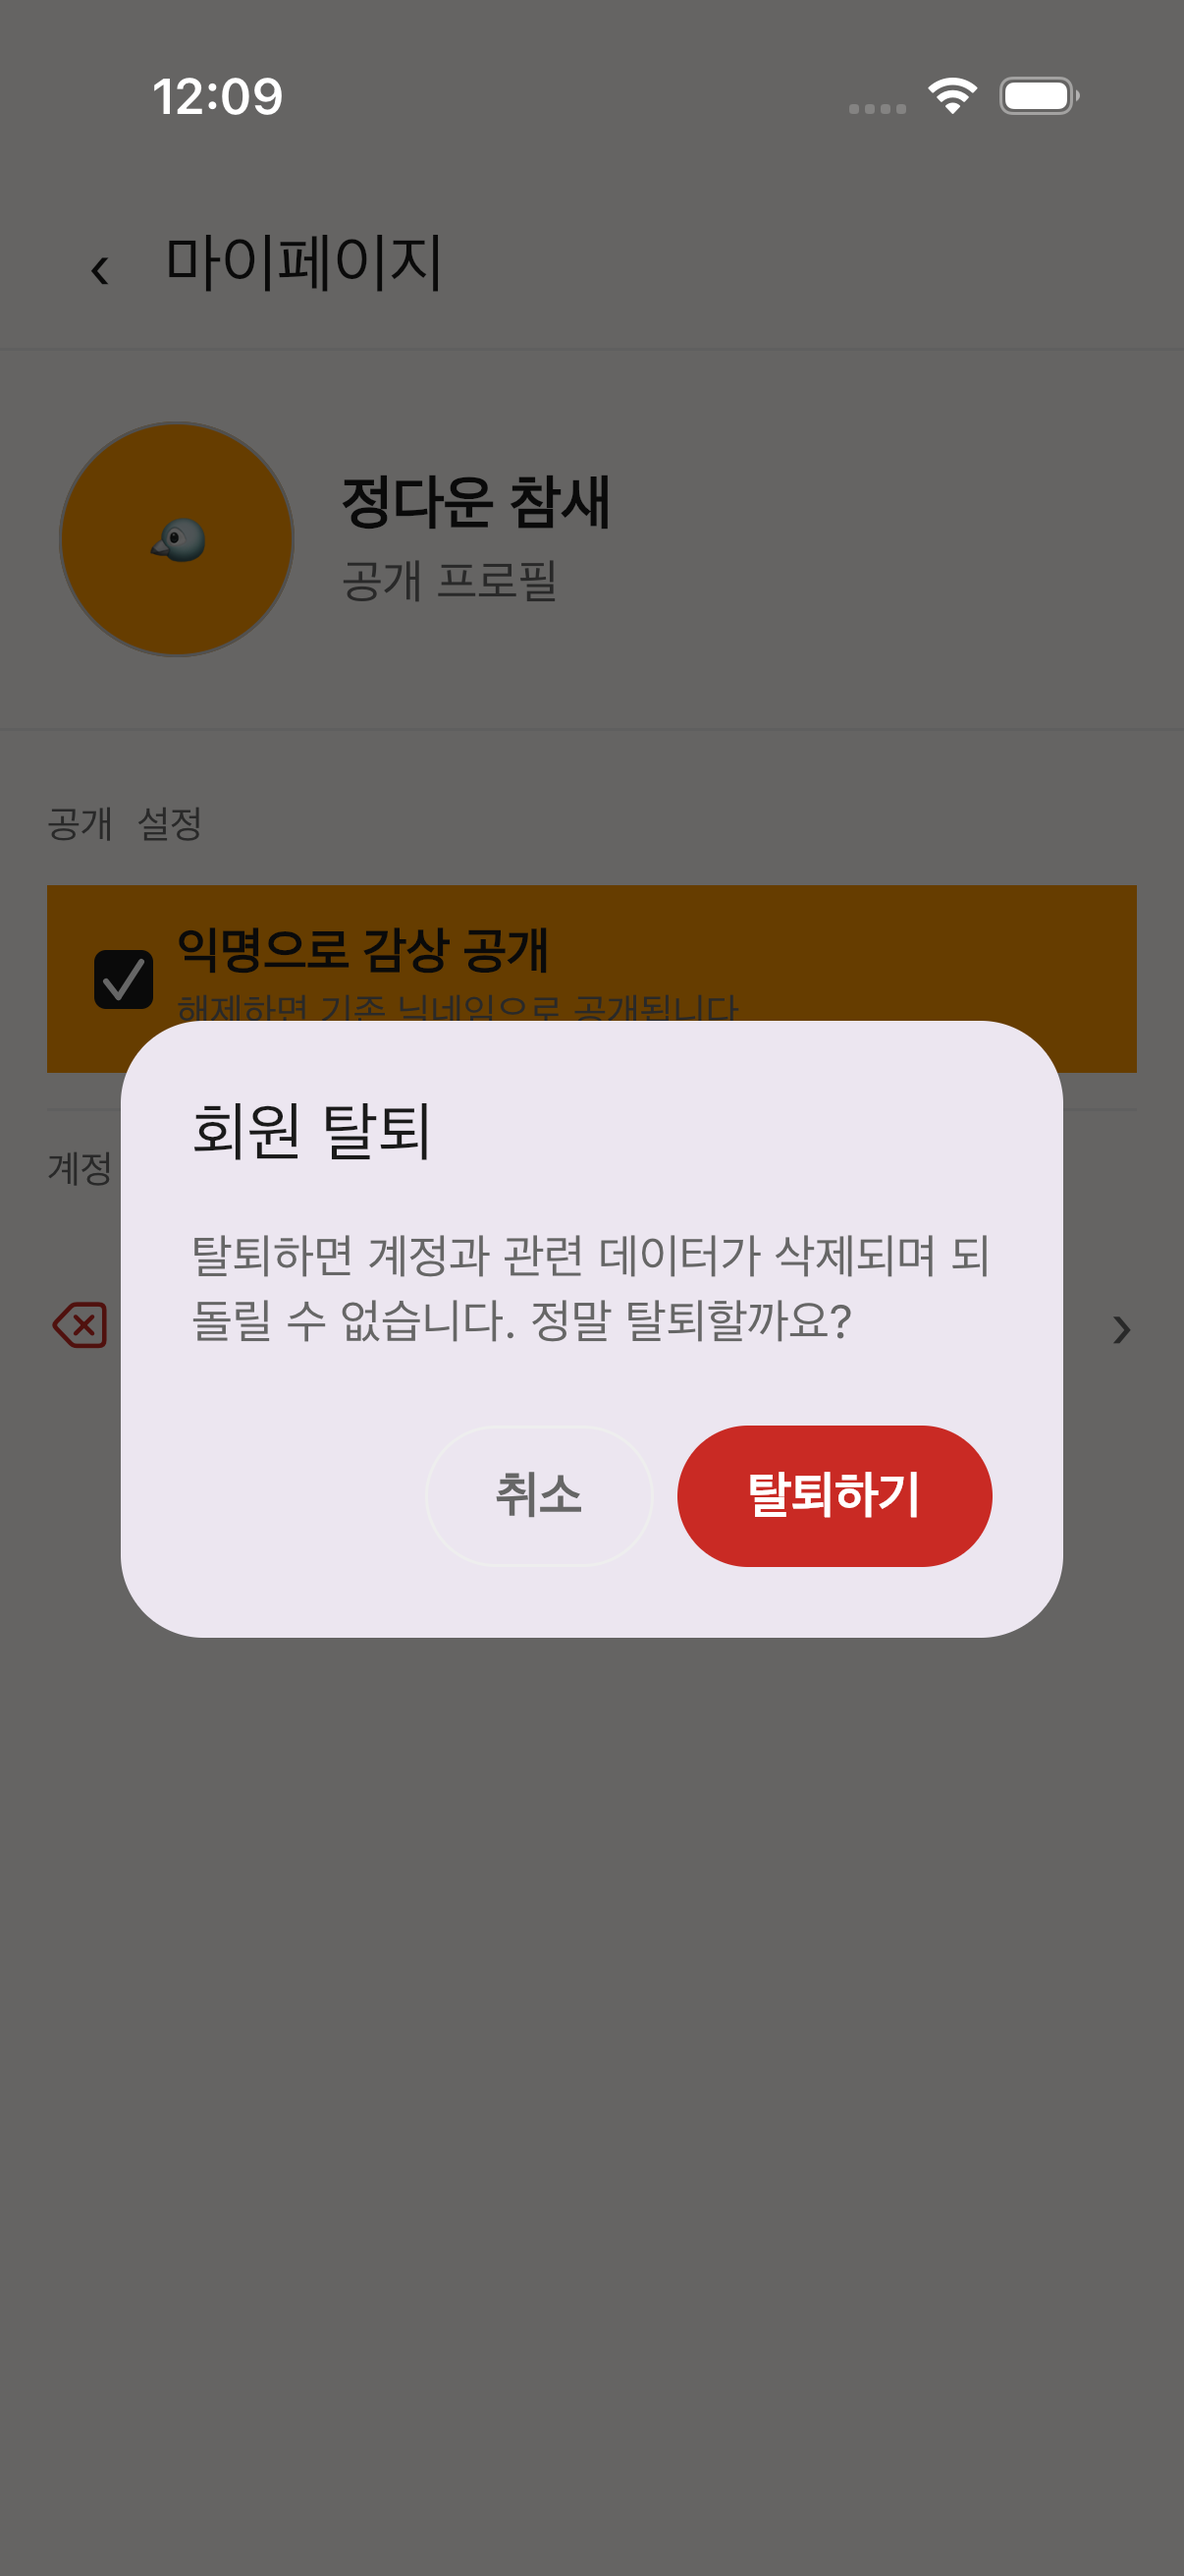
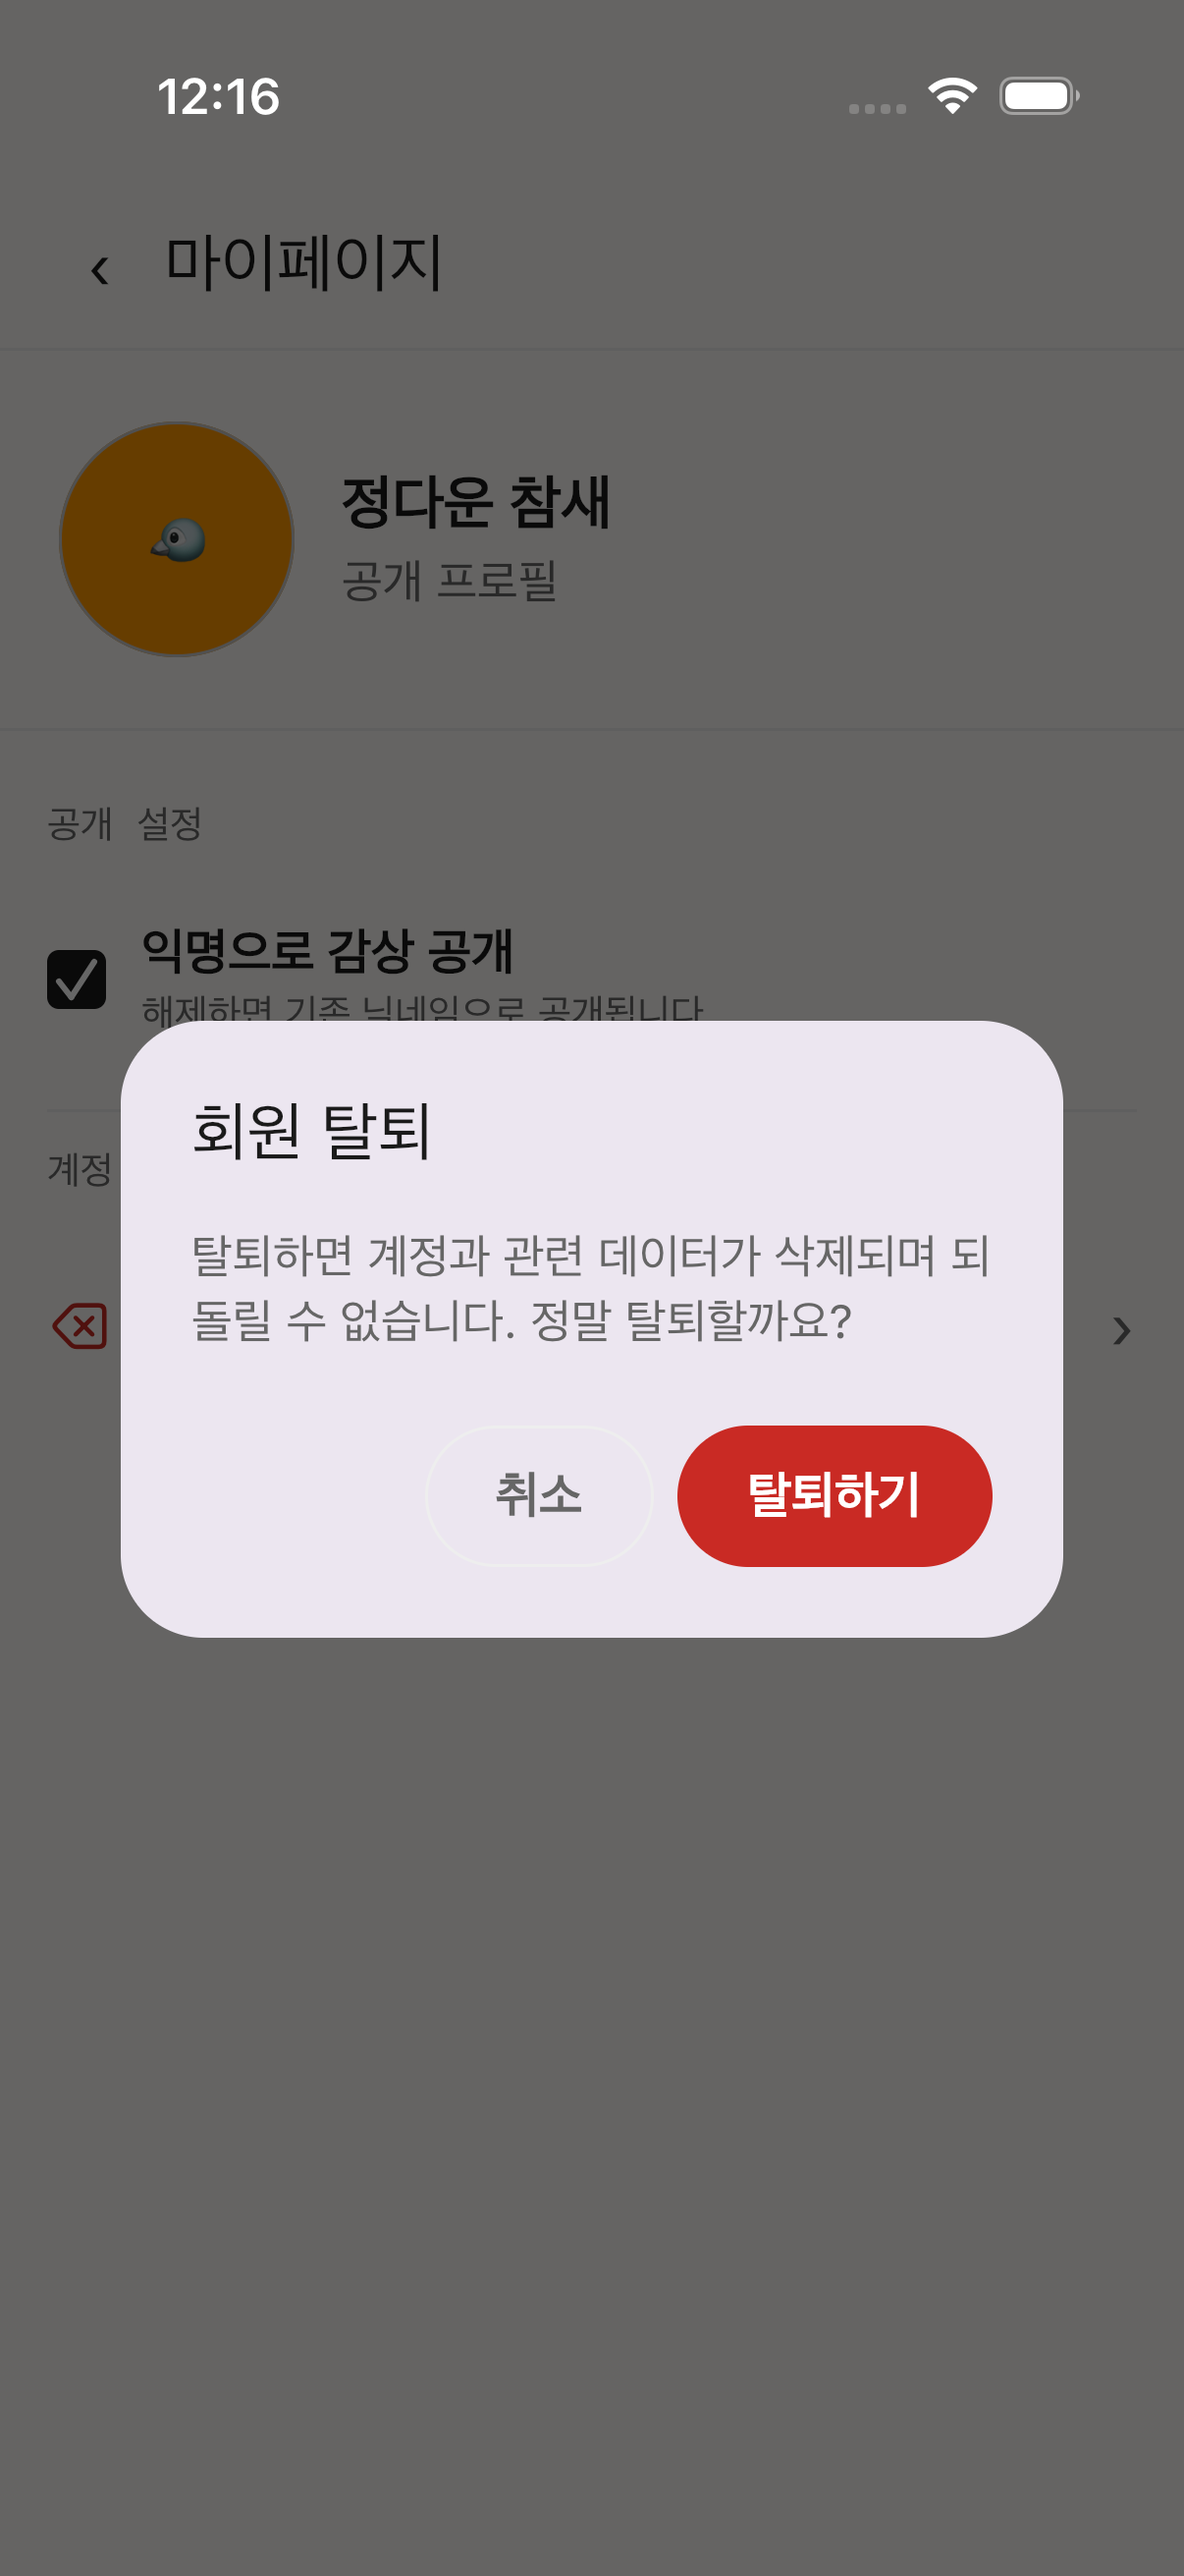
style(android): 익명 공개 설정 배경을 제거
마이페이지의 익명 공개 설정을 회원 탈퇴 행과 같은 평면형 구성으로 맞춘다.
기본 크기와 AX5 구현 화면을 새 디자인으로 갱신한다.

Changed region(s): [[0.0307, 0.3398, 0.9818, 0.4325], [0.1227, 0.0309, 0.2454, 0.0618]]

diff --git a/android/shared/src/commonMain/kotlin/com/chaekchaek/app/ui/archive/MyPageScreen.kt b/android/shared/src/commonMain/kotlin/com/chaekchaek/app/ui/archive/MyPageScreen.kt
@@ -185,10 +185,10 @@ private fun SectionLabel(text: String) {
 @Composable
 private fun AnonymousSetting(checked: Boolean, nickname: String, onClick: () -> Unit) {
     Row(
-        modifier = Modifier.fillMaxWidth().background(MaterialTheme.colorScheme.primaryContainer)
+        modifier = Modifier.fillMaxWidth().heightIn(min = 64.dp)
             .toggleable(value = checked, role = Role.Checkbox, onValueChange = { onClick() })
-            .padding(horizontal = 16.dp, vertical = 12.dp),
-        horizontalArrangement = Arrangement.spacedBy(8.dp),
+            .padding(vertical = 8.dp),
+        horizontalArrangement = Arrangement.spacedBy(12.dp),
         verticalAlignment = Alignment.CenterVertically,
     ) {
         Box(
